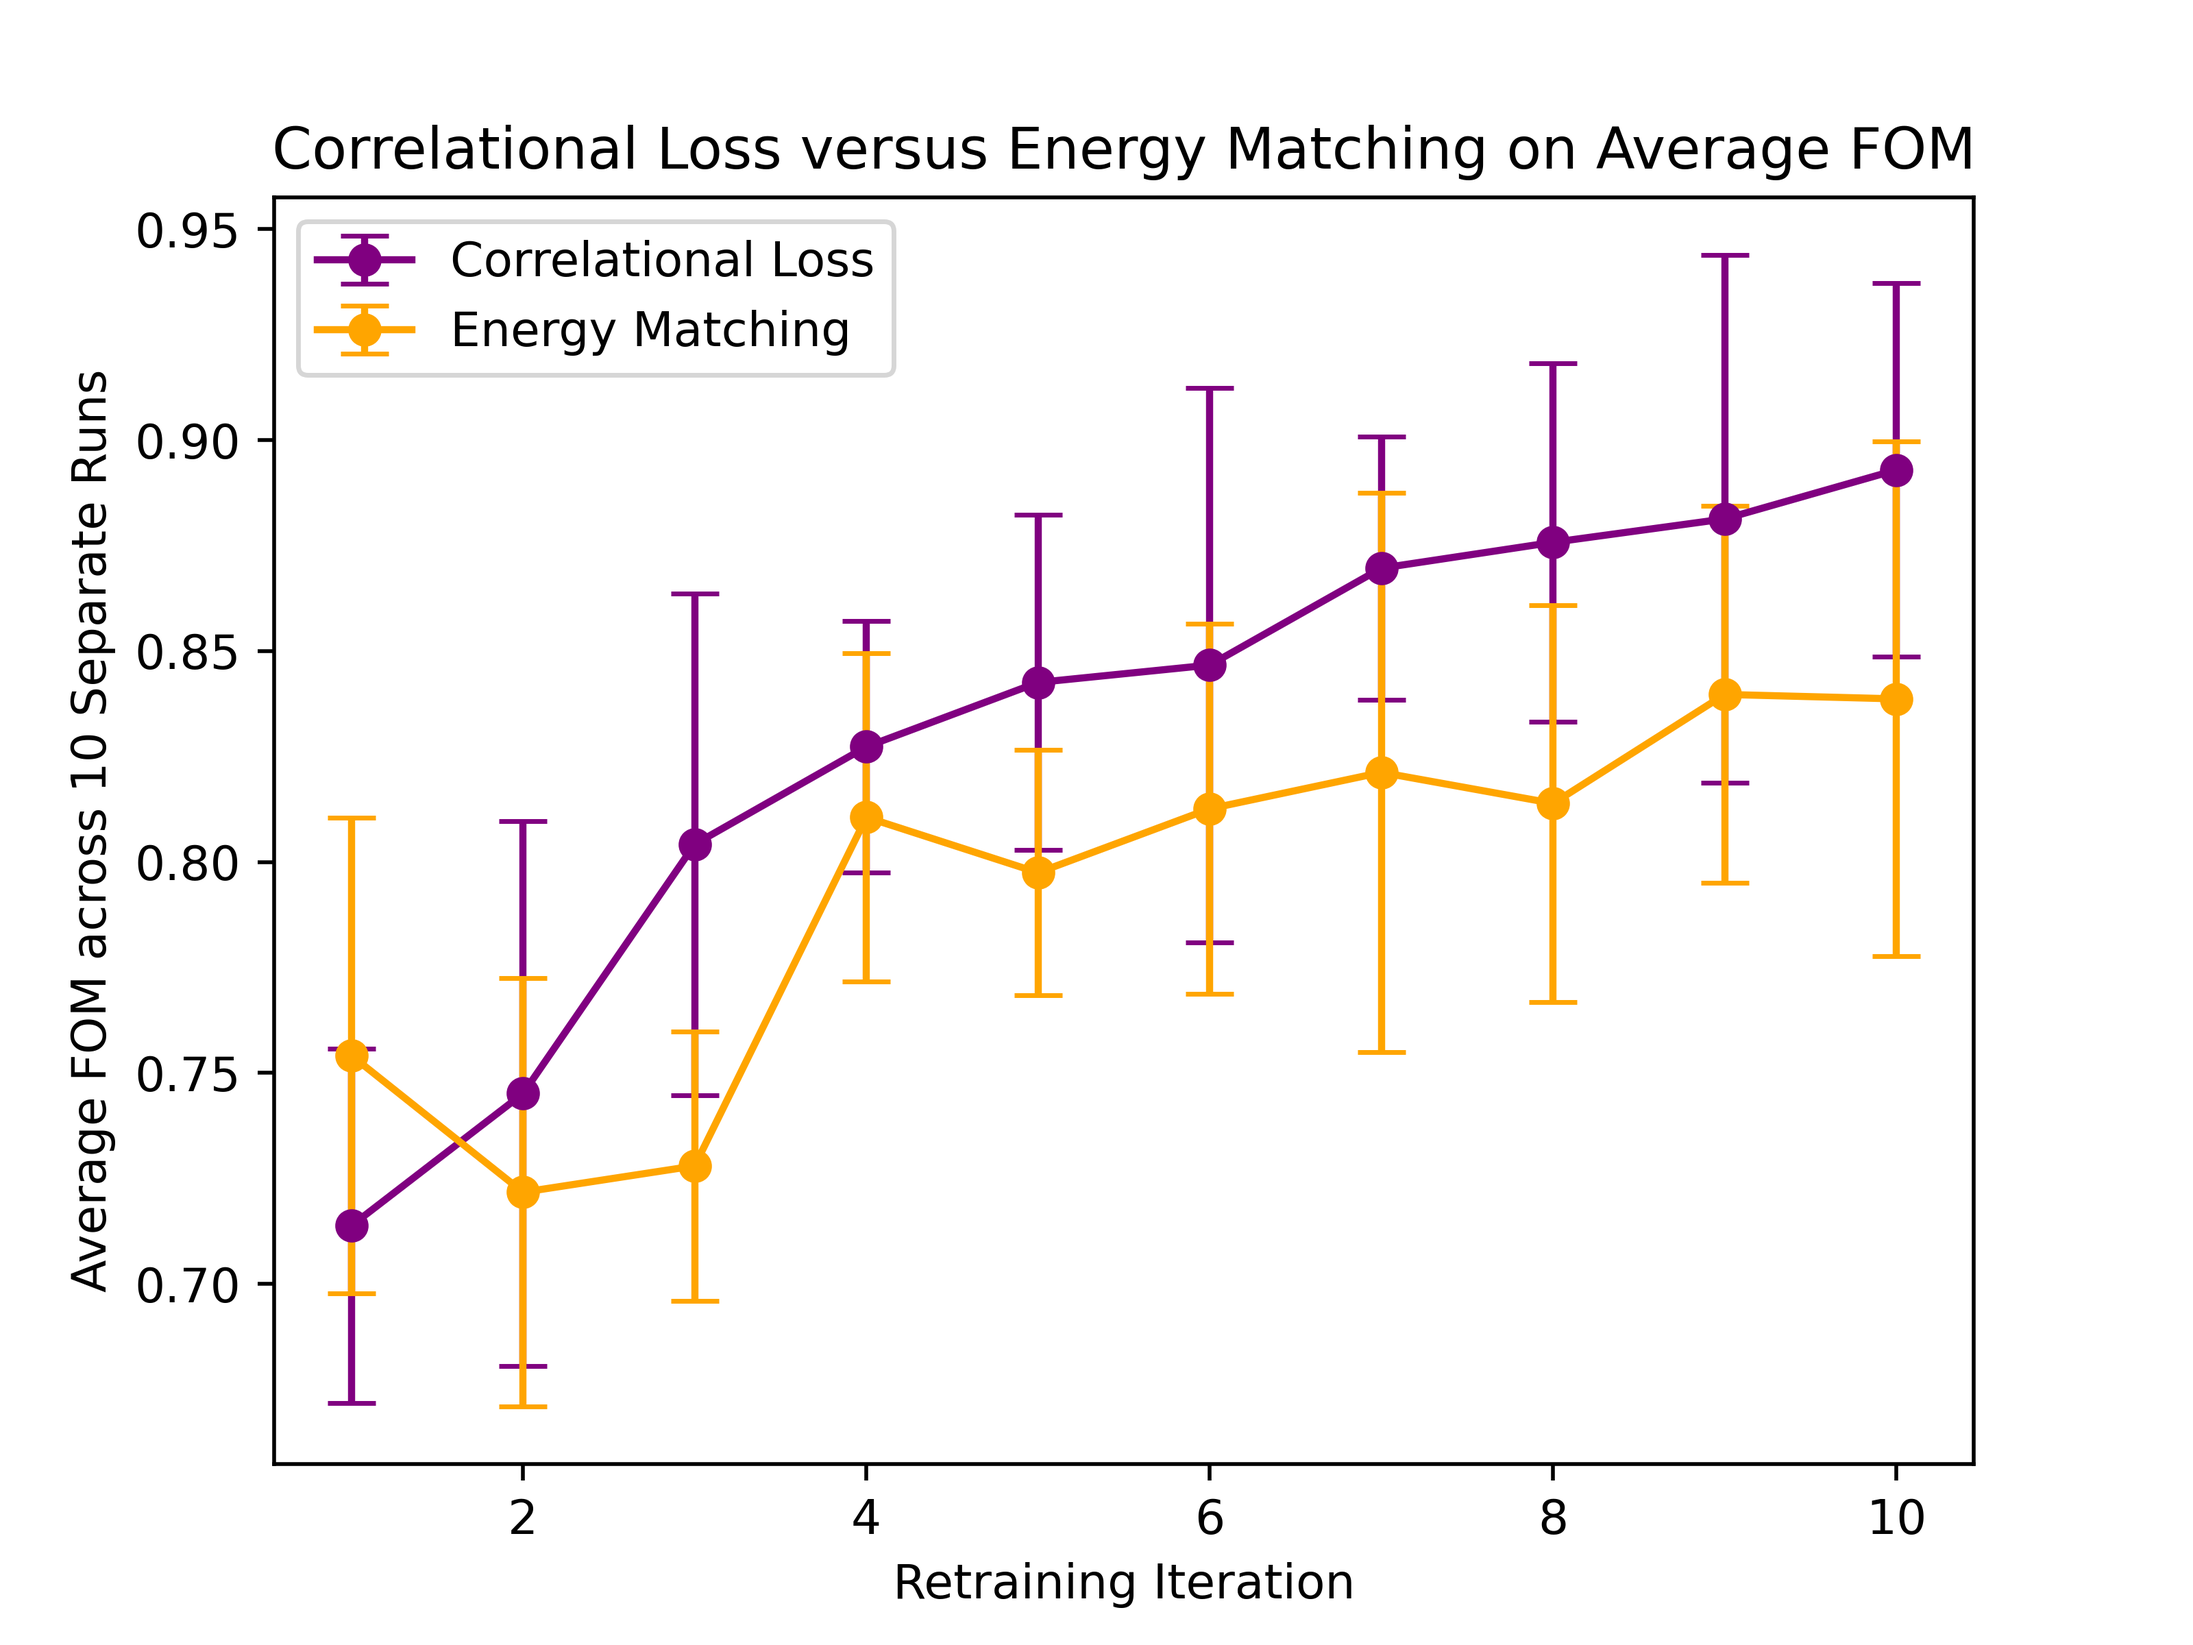
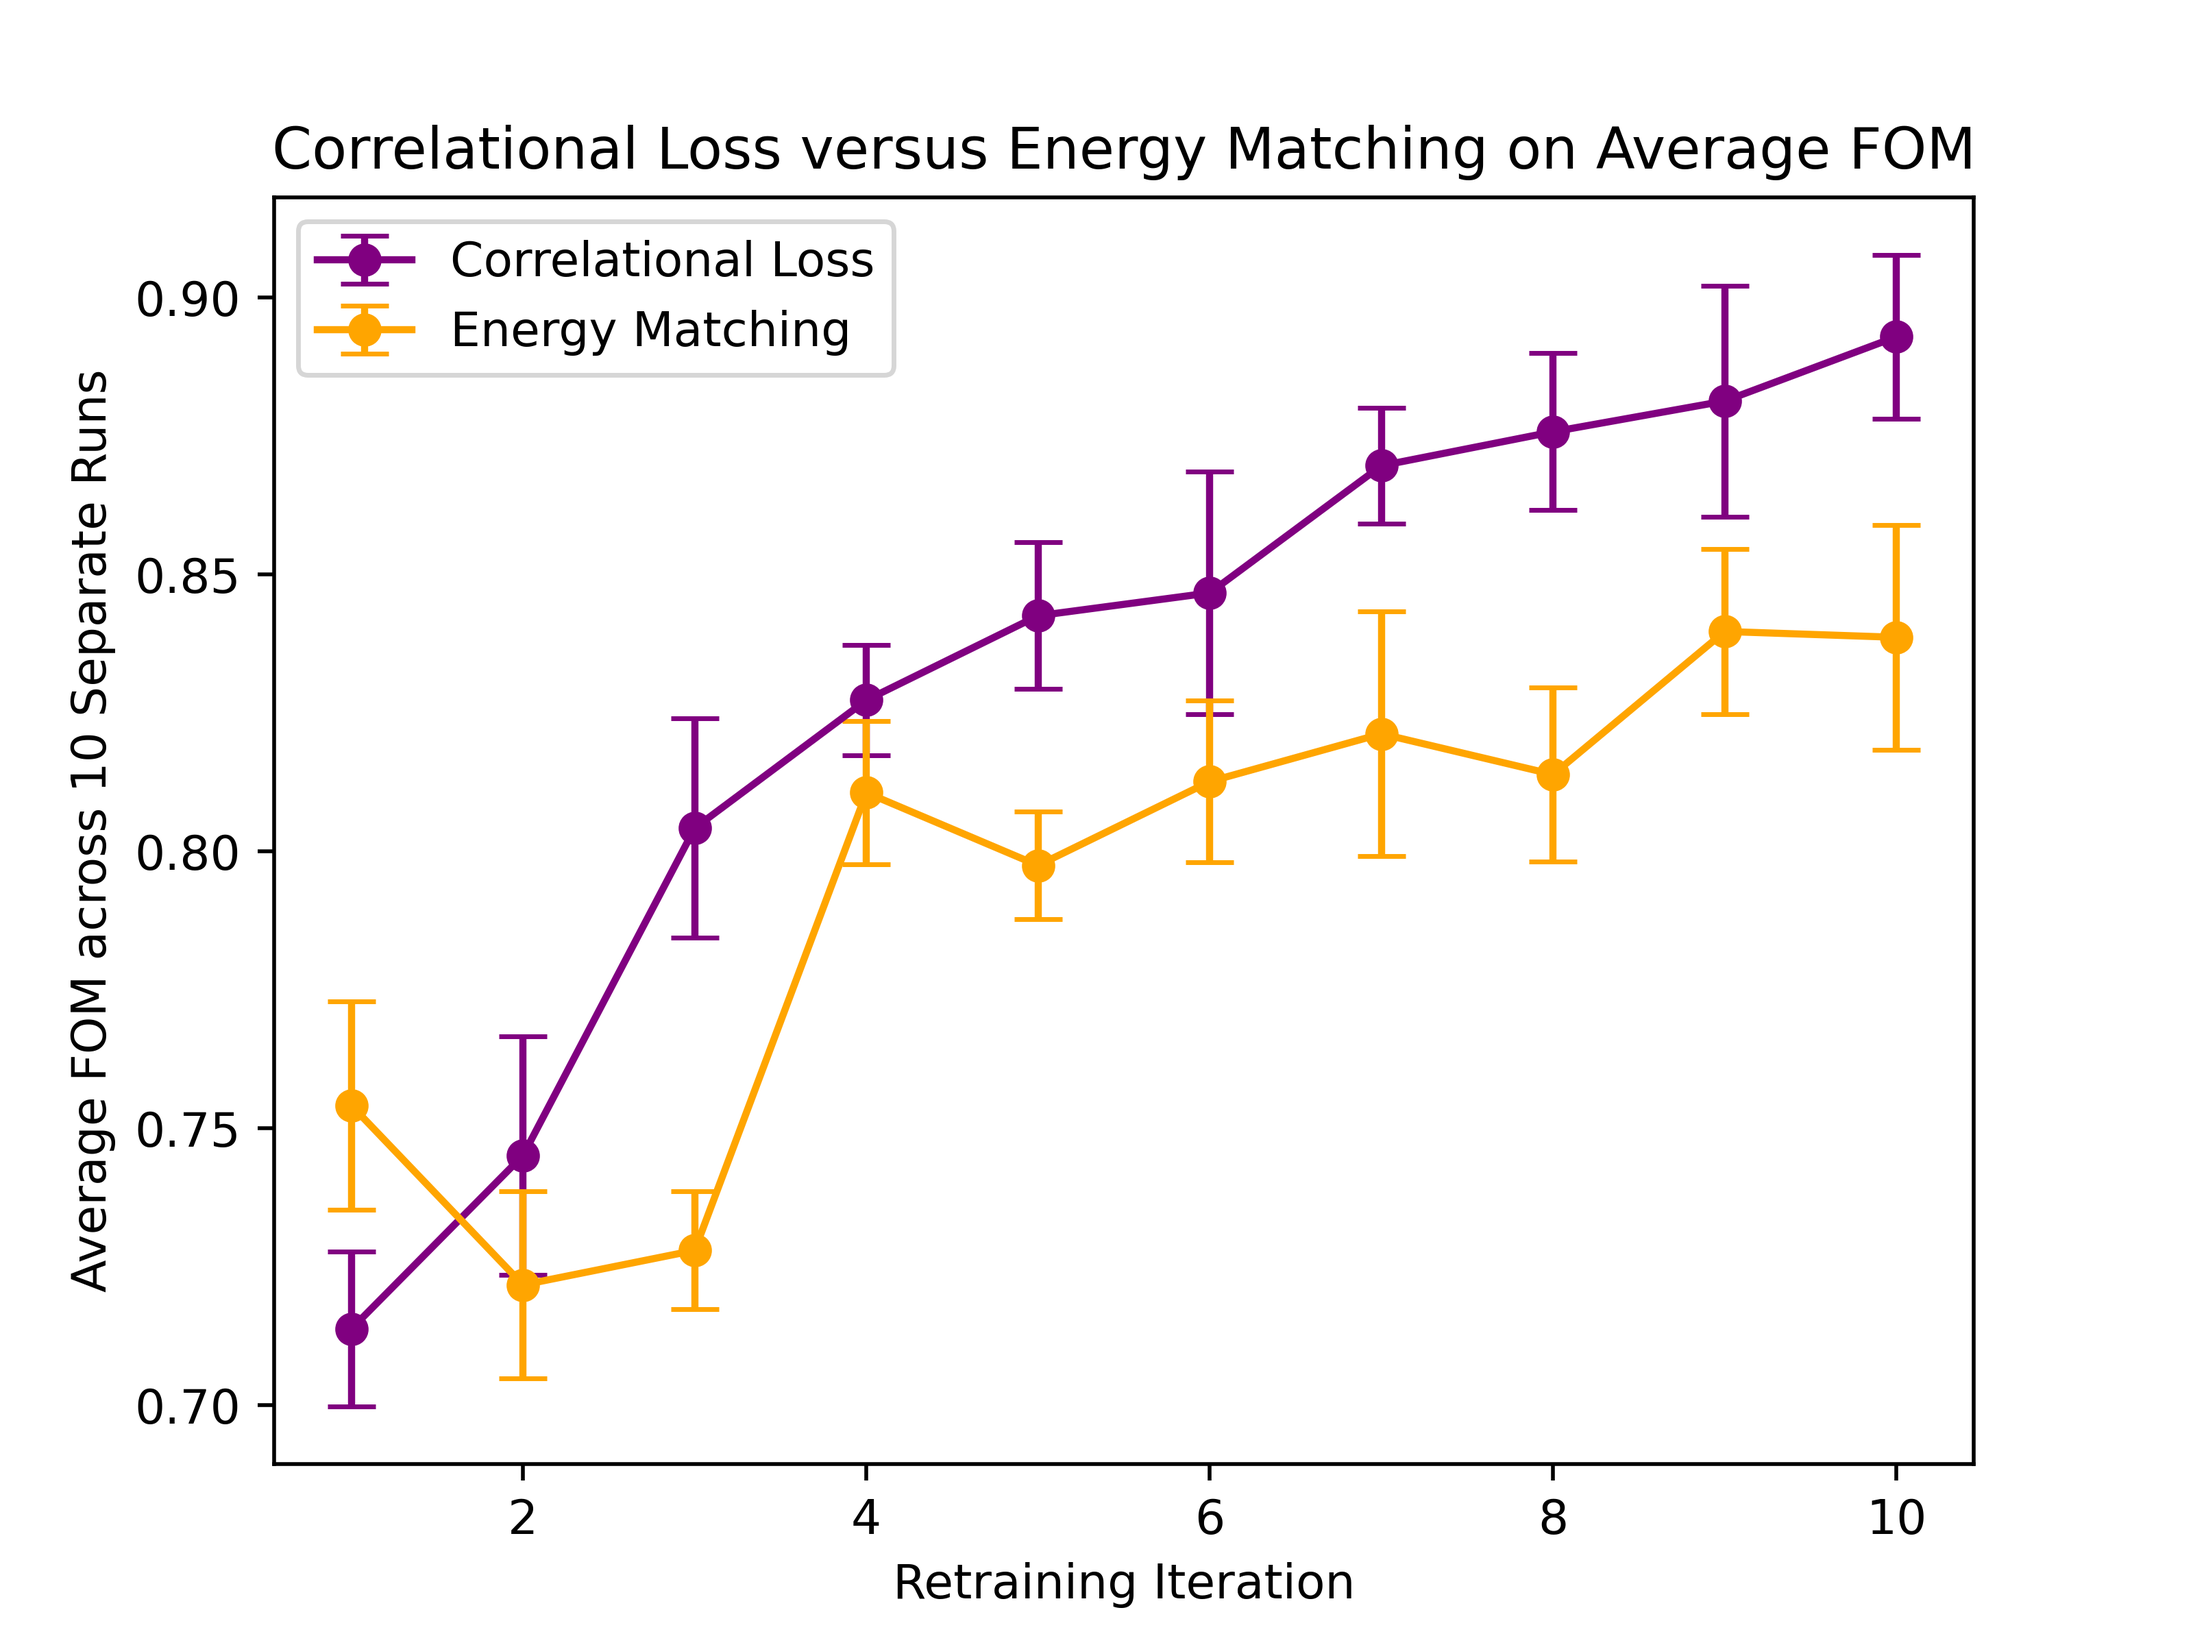
Edits

diff --git a/Retraining/Multiple_Runs_Comparison/plot_data.py b/Retraining/Multiple_Runs_Comparison/plot_data.py
@@ -29,10 +29,10 @@ for i in range(10):
         em_matrix[i][j] = em_run_mean[j]
 
 # print(cl_matrix)
-cl_stdevs = np.std(cl_matrix, axis=0)
+cl_stdevs = np.std(cl_matrix, axis=0) / 3
 cl_averages = np.mean(cl_matrix, axis=0)
 
-em_stdevs = np.std(em_matrix, axis=0)
+em_stdevs = np.std(em_matrix, axis=0) / 3
 em_averages = np.mean(em_matrix, axis=0)
 
 x_axis = np.linspace(1, 10, 10)
@@ -40,14 +40,24 @@ x_axis = np.linspace(1, 10, 10)
 plt.figure()
 plt.errorbar(x_axis, cl_averages, yerr=cl_stdevs, fmt='-o', capsize=5, color='purple', label='Correlational Loss')
 plt.errorbar(x_axis, em_averages, yerr=em_stdevs, fmt='-o', capsize=5, color='orange', label='Energy Matching')
-# plt.errorbar(x_axis, em_average, yerr=em_stdevs, color='orange', label='Energy Matching')
-# plt.plot(x_axis, cl_average, color='purple', label='Correlational Loss')
-# plt.plot(x_axis, em_average, color='orange', label='Energy Matching')
 plt.legend()
 plt.title("Correlational Loss versus Energy Matching on Average FOM")
 plt.xlabel("Retraining Iteration")
 plt.ylabel("Average FOM across 10 Separate Runs")
 plt.savefig("Retraining.png", dpi=500)
+
+
+plt.figure()
+plt.plot(x_axis, cl_averages, color='purple', label='Correlational Loss')
+plt.fill_between(x_axis, cl_averages - cl_stdevs, cl_averages + cl_stdevs, color='purple', alpha=0.2, label='+-1/3 Std Dev')
+plt.plot(x_axis, em_averages, color='orange', label='Energy Matching')
+plt.fill_between(x_axis, em_averages - em_stdevs, em_averages + em_stdevs, color='orange', alpha=0.2, label='+-1/3 Std Dev')
+plt.legend()
+
+plt.title("Correlational Loss versus Energy Matching on Average FOM")
+plt.xlabel("Retraining Iteration")
+plt.ylabel("Average FOM across 10 Separate Runs")
+plt.savefig("Shadow.png", dpi=500)
 
 exit()
 cl_average /= 10

diff --git a/Retraining/Multiple_Runs_Comparison/get_covariance.py b/Retraining/Multiple_Runs_Comparison/get_covariance.py
@@ -1,0 +1,6 @@
+import pickle
+
+with open("./Correlational_Loss_9_experiment_num_training_info.pkl", "rb") as file:
+    data = pickle.load(file)
+    print(data.keys())
+    print(data["Covariances"])
